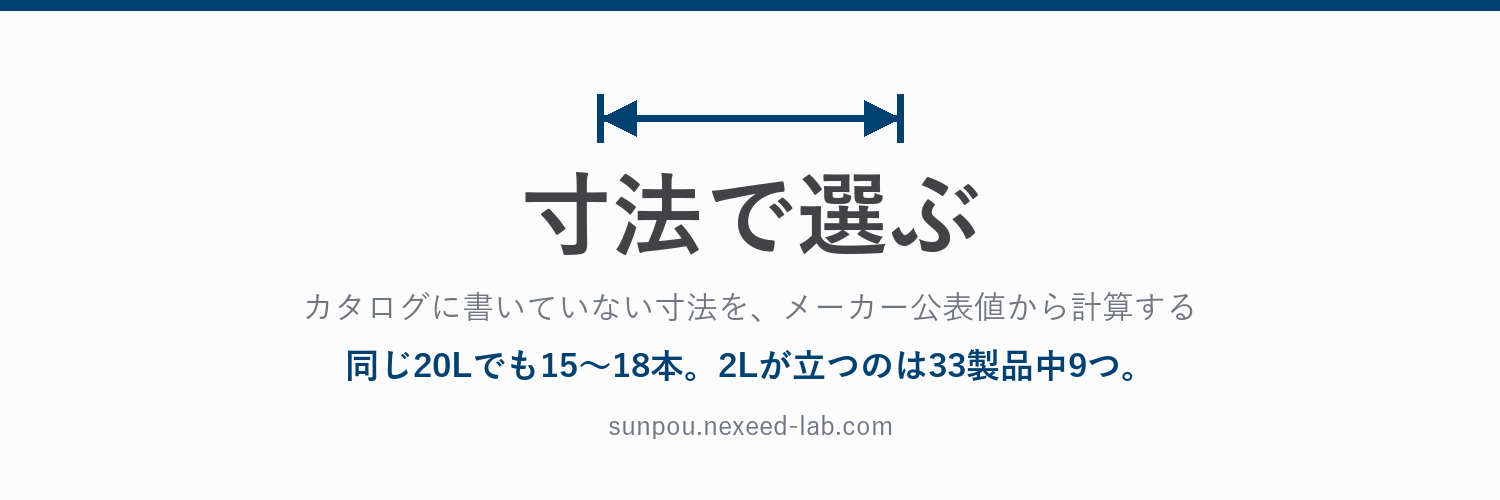
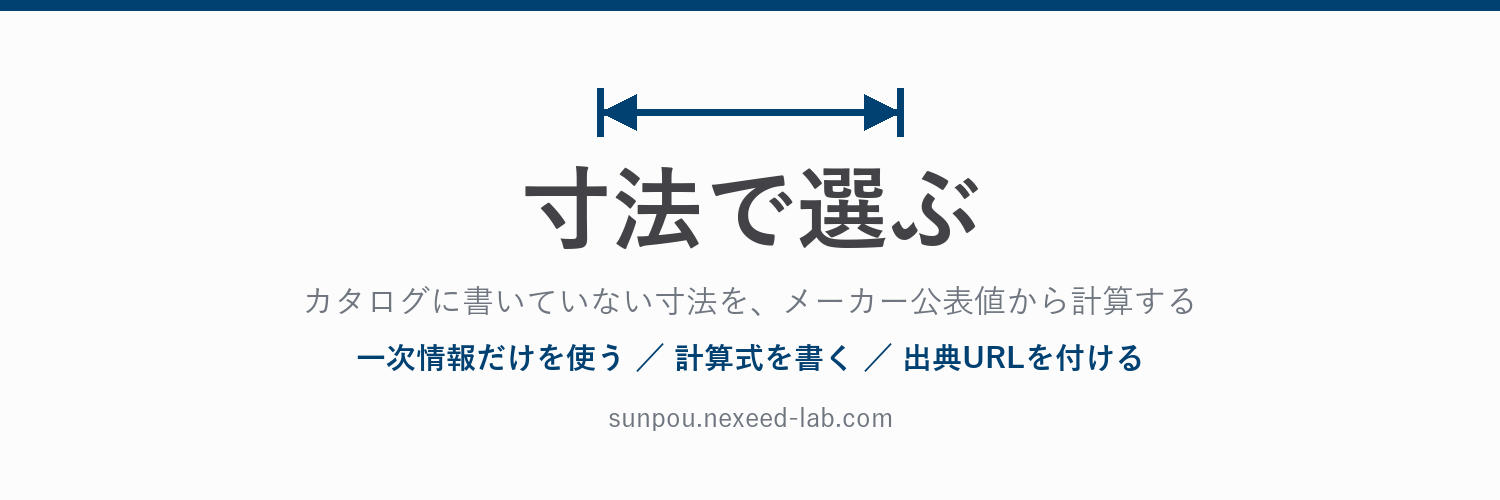
SNSの見直し: 特定ジャンルを前面に出さない方針に変更
利用者から「クーラーボックスを全面に押しすぎ」との指摘。
アカウントは「寸法で確かめる」方法の看板であって、クーラーボックス専門ではない。
プロフィールにジャンルを書くと、後で増やしたときに自分で自分を狭めることになる。

- bio: 「クーラーボックス/500ml/2L」を外し「容量Lや号数」という一般表記に
- ヘッダー: ジャンル固有の数字を全部外し、方法（一次情報/計算式/出典URL）だけに
- 固定ポスト: ジャンルを2つ出して専門アカウントではないことを最初に見せる
- 投稿の下書き: 方法A・カセットコンロB・クーラーボックスC に整理し、Aを先に出す順に
- 記事の側もクーラーボックス9本/カセットコンロ1本で偏っている点を明記

diff --git a/assets/sns/xheader.py b/assets/sns/xheader.py
@@ -1,4 +1,7 @@
 # -*- coding: utf-8 -*-
+# X のヘッダー（1500x500）。
+# 方針: 特定ジャンル（クーラーボックス等）の数字を出さない。
+#       このアカウントは「寸法で確かめる」という方法の看板なので、方法だけを書く。
 from PIL import Image, ImageDraw, ImageFont
 import sys; sys.stdout.reconfigure(encoding='utf-8')
 NAVY=(1,65,114); BG=(252,252,252); INK=(67,67,71); MUTE=(111,118,128)
@@ -7,41 +10,31 @@ def f(p,s): return ImageFont.truetype(p,s)
 W,H=1500,500
 img=Image.new("RGB",(W,H),BG); d=ImageDraw.Draw(img)
 d.rectangle([0,0,W,10], fill=NAVY)
-
-def center(text, font, y, fill):
+boxes=[]
+def center(text, font, y, fill, name):
     bb=d.textbbox((0,0),text,font=font)
     x=(W-(bb[2]-bb[0]))/2 - bb[0]
     d.text((x,y),text,font=font,fill=fill)
-    return (x+bb[0], y+bb[1], x+bb[2], y+bb[3])
+    boxes.append((name, x+bb[0], y+bb[1], x+bb[2], y+bb[3]))
 
-boxes=[]
-# 寸法線（タイトルの上・中央）
-w=7; y=118; half=150
-x1,x2=W//2-half, W//2+half
-hh=int(w*3.5)
+# 寸法線（favicon と同じモチーフ）
+w=7; y=112; half=150; x1,x2=W//2-half, W//2+half; hh=int(w*3.5); a=int(w*2.6)
 d.line([(x1,y-hh),(x1,y+hh)],fill=NAVY,width=w); d.line([(x2,y-hh),(x2,y+hh)],fill=NAVY,width=w)
 d.line([(x1,y),(x2,y)],fill=NAVY,width=w)
-a=int(w*2.6)
 d.polygon([(x1,y),(x1+a*2,y-a),(x1+a*2,y+a)],fill=NAVY); d.polygon([(x2,y),(x2-a*2,y-a),(x2-a*2,y+a)],fill=NAVY)
 boxes.append(("寸法線", x1, y-hh, x2, y+hh))
 
-boxes.append(("タイトル", *center("寸法で選ぶ", f(FB,92), 168, INK)))
-boxes.append(("タグライン", *center("カタログに書いていない寸法を、メーカー公表値から計算する", f(FM,32), 290, MUTE)))
-boxes.append(("数字", *center("同じ20Lでも15〜18本。2Lが立つのは33製品中9つ。", f(FB,34), 348, NAVY)))
-boxes.append(("URL", *center("sunpou.nexeed-lab.com", f(FM,26), 412, MUTE)))
+center("寸法で選ぶ", f(FB,92), 162, INK, "タイトル")
+center("カタログに書いていない寸法を、メーカー公表値から計算する", f(FM,32), 284, MUTE, "タグライン")
+center("一次情報だけを使う ／ 計算式を書く ／ 出典URLを付ける", f(FB,30), 342, NAVY, "方法")
+center("sunpou.nexeed-lab.com", f(FM,26), 404, MUTE, "URL")
 
-# 検査1: 要素どうしの重なり
-ov=[]
-for i in range(len(boxes)):
-    for j in range(i+1,len(boxes)):
-        n1,ax1,ay1,ax2,ay2=boxes[i]; n2,bx1,by1,bx2,by2=boxes[j]
-        if ax1<bx2 and bx1<ax2 and ay1<by2 and by1<ay2: ov.append(f"{n1} × {n2}")
-# 検査2: 枠外 / アイコンが重なる左下（X ではアバターが左下を覆う）
-out=[f"{n} が枠外" for n,x1,y1,x2,y2 in boxes if x1<0 or y1<0 or x2>W or y2>H]
-avatar=(0,300,300,H)
-hit=[n for n,x1,y1,x2,y2 in boxes if x1<avatar[2] and avatar[0]<x2 and y1<avatar[3] and avatar[1]<y2]
-print("重なり:", ov or "なし")
-print("枠外:", out or "なし")
-print("アバターと干渉:", hit or "なし")
-for n,x1,y1,x2,y2 in boxes: print(f"  {n:8s} x {x1:6.0f}-{x2:6.0f}  y {y1:5.0f}-{y2:5.0f}")
+# 検査: 重なり / 枠外 / アバター（X では左下が隠れる）
+ov=[f"{boxes[i][0]} × {boxes[j][0]}" for i in range(len(boxes)) for j in range(i+1,len(boxes))
+    if boxes[i][1]<boxes[j][3] and boxes[j][1]<boxes[i][3] and boxes[i][2]<boxes[j][4] and boxes[j][2]<boxes[i][4]]
+out=[n for n,x1_,y1_,x2_,y2_ in boxes if x1_<0 or y1_<0 or x2_>W or y2_>H]
+av=(0,300,300,H)
+hit=[n for n,x1_,y1_,x2_,y2_ in boxes if x1_<av[2] and av[0]<x2_ and y1_<av[3] and av[1]<y2_]
+print("重なり:", ov or "なし"); print("枠外:", out or "なし"); print("アバターと干渉:", hit or "なし")
+for n,a1,b1,a2,b2 in boxes: print(f"  {n:8s} x {a1:6.0f}-{a2:6.0f}  y {b1:5.0f}-{b2:5.0f}")
 img.save("x-header-1500x500.png")

diff --git a/docs/sns-plan.md b/docs/sns-plan.md
@@ -125,6 +125,17 @@
 | `sunpou_erabu` | 404 | |
 | `nexeed_sunpou` | 404 | |
 
+### ⚠ 方針：**特定ジャンルを前面に出さない**（2026-08-25 見直し）
+
+初版はクーラーボックスの数字（「同じ20Lでも15〜18本」等）をbioとヘッダーに入れていたが、
+**利用者の指摘を受けて全部外した。**
+
+**このアカウントは「寸法で確かめる」という方法の看板であって、クーラーボックス専門アカウントではない。**
+いま記事がクーラーボックスに偏っているのは**たまたま先に書いたから**で、ジャンルは増やしていく。
+プロフィールにジャンルを書き込むと、**後で増やしたときに自分で自分を狭めることになる。**
+
+→ **プロフィールとヘッダーには「方法」だけを書く。ジャンルは投稿の側で出す。**
+
 ### プロフィール（そのまま貼れる）
 
 **表示名**
@@ -133,11 +144,14 @@
 寸法で選ぶ｜カタログにない数字
 ```
 
-**自己紹介（bio・160文字以内 / 下記は約90文字）**
+**自己紹介（bio・160文字以内 / 下記は91文字）**
 
 ```
-カタログに書いていない寸法を計算しています。クーラーボックスに500mlは何本入るか、2Lは立つか。すべてメーカー公表値からの計算で、実測ではありません。数字には必ず出典URLを付けています。
+カタログに書いていない寸法を計算しています。容量Lや号数では「何が入るか」は決まりません。すべてメーカー公表値からの計算で、実測ではありません。数字には必ず出典URLを付けています。
 ```
+
+⚠ **「クーラーボックス」「500ml」「2L」といった固有のジャンル名を入れない。**
+代わりに「容量Lや号数」という**カタログ表記一般**の言い方にしてある（号数＝土鍋、QT＝コールマンにも掛かる）。
 
 **ウェブサイト**
 
@@ -147,14 +161,18 @@ https://sunpou.nexeed-lab.com/
 
 ### 固定ポスト（プロフィールにピン留めする用）
 
+**ジャンルを2つ出して「クーラーボックス専門ではない」ことを最初に見せる。**
+
 ```
-「20Lのクーラーボックスに500mlは何本入るか」を、メーカー公表の内寸から計算しています。
+カタログの数字は、知りたいことを教えてくれないことがあります。
 
-同じ20Lでも15〜18本。2Lが立つのは33製品中9つだけ。
-容量Lは、何が入るかを教えてくれません。
+「20L」のクーラーボックスに何が入るかは容量では決まらないし、
+「9号まで」のカセットコンロに9号の土鍋が乗るとも限らない。
 
-用途から逆に引ける早見表はこちら
-https://sunpou.nexeed-lab.com/coolerbox/erabikata/
+メーカーが公表している寸法から計算して、そこを確かめています。
+実測ではなく計算値で、数字には必ず出典URLを付けます。
+
+https://sunpou.nexeed-lab.com/
 ```
 
 ### アイコンとヘッダー（作成済み）
@@ -178,26 +196,55 @@ https://sunpou.nexeed-lab.com/coolerbox/erabikata/
 ⚠ **どの投稿にもアフィリエイトリンクを貼らない**（第3節の設計）。**貼るのは記事URLだけ。**
 ⚠ **煽り文句（数量限定・在庫僅少）は使わない**（景表法の有利誤認リスク／`affiliate-program-facts.md`）。
 
-| # | 本文 | 添える図版 | リンク先 |
+**A. 方法の投稿（ジャンルに依らない。アカウントの性格を示す）**
+
+| # | 本文 | 図版 | リンク先 |
 |---|---|---|---|
-| 1 | ダイワのクーラーボックス、80Lと60Lで「まっすぐ入る長さ」が**同じ85cm**でした。20L増えても伸びるのは深さだけ。容量Lは長さを教えてくれません。 | `coolerbox-nagasa-eyecatch.svg` | `/coolerbox/uchinori-nagasa/` |
-| 2 | 20Lのクーラーボックスに保冷剤を1枚。**床に寝かせると18本→6本、壁に立てかけると18本のまま。** 同じ箱・同じ1枚でこの差でした。 | `coolerbox-horeizai-oki.svg` | `/coolerbox/horeizai-honsuu/` |
-| 3 | ダイワの「KEEP」とシマノの「COOL」、**どちらもJIS S 2048の簡便法で「氷が溶け切るまでの時間」に換算した同じ物差し**でした。名前が違うだけです。 | `coolerbox-daiwa-shimano-eyecatch.svg` | `/coolerbox/daiwa-shimano/` |
-| 4 | 「9号土鍋まで」と書かれたカセットコンロ。ところが**同じ銀峯陶器の9号でも幅は31〜32.5cm**あります。号数は寸法を決めていません。 | `konro-donabe-eyecatch.svg` | `/cassette-konro/donabe-nangou/` |
-| 5 | アイリスオーヤマの15Lクーラーボックス、**外寸で測ると46Lの箱**でした。中身に使えるのは13.4L。外寸の3〜4割しか中に入りません。 | `coolerbox-yoryo-eyecatch.svg` | `/coolerbox/yoryo-uchinori/` |
-| 6 | 2Lペットボトルが立つクーラーボックスを探すなら**コールマン**でした。26Lクラスで内寸の深さ350mm。日本の釣り系メーカーは同クラスで220〜260mmです。 | `coleman-fukasa-eyecatch.svg` | `/coolerbox/coleman-uchinori/` |
+| A1 | カタログの数字が、知りたいことを教えてくれない例を集めています。クーラーボックスの「容量L」、土鍋の「号数」、コールマンの「QT」。**どれも“何が入るか”は別の数字で決まっていました。** | なし | `/` |
+| A2 | このサイトのルールは3つです。①**一次情報だけを使う**（通販の商品説明は根拠にしない）②**計算式を記事に書く**（読者が検算できる形にする）③**数字には出典URLを付ける**。実測ではなく計算値だとも必ず明記します。 | なし | `/about/` |
+| A3 | メーカーが公表している数字どうしが**食い違っていること**もあります。イワタニは「10号土鍋まで」と書いているのに、**その機種の本体幅（33.4cm）より10号土鍋（34〜36cm）のほうが大きい**。どちらも公表値です。 | `konro-donabe-haba.svg` | `/cassette-konro/donabe-nangou/` |
+
+**B. カセットコンロ（いまの季節に出す）**
+
+| # | 本文 | 図版 | リンク先 |
+|---|---|---|---|
+| B1 | 「9号土鍋まで」と書かれたカセットコンロ。ところが**同じ銀峯陶器の9号でも幅は31〜32.5cm**あります。号数は寸法を決めていません。 | `konro-donabe-eyecatch.svg` | `/cassette-konro/donabe-nangou/` |
+| B2 | イワタニのカセットこんろ10機種を並べたら、**火力と乗る鍋の大きさは無関係**でした。最大4.1kWの機種が9号まで、**最小2.9kWの機種だけが10号まで**。 | なし | `/cassette-konro/donabe-nangou/` |
+
+**C. クーラーボックス（需要期＝初夏に出す）**
+
+| # | 本文 | 図版 | リンク先 |
+|---|---|---|---|
+| C1 | ダイワのクーラーボックス、80Lと60Lで「まっすぐ入る長さ」が**同じ85cm**でした。20L増えても伸びるのは深さだけ。 | `coolerbox-nagasa-eyecatch.svg` | `/coolerbox/uchinori-nagasa/` |
+| C2 | 20Lのクーラーボックスに保冷剤を1枚。**床に寝かせると18本→6本、壁に立てかけると18本のまま。** 同じ箱・同じ1枚でこの差でした。 | `coolerbox-horeizai-oki.svg` | `/coolerbox/horeizai-honsuu/` |
+| C3 | ダイワの「KEEP」とシマノの「COOL」、**どちらもJIS S 2048の簡便法で「氷が溶け切るまでの時間」に換算した同じ物差し**でした。名前が違うだけです。 | `coolerbox-daiwa-shimano-eyecatch.svg` | `/coolerbox/daiwa-shimano/` |
+| C4 | アイリスオーヤマの15Lクーラーボックス、**外寸で測ると46Lの箱**でした。中身に使えるのは13.4L。 | `coolerbox-yoryo-eyecatch.svg` | `/coolerbox/yoryo-uchinori/` |
+| C5 | 2Lペットボトルが立つクーラーボックスを探すなら**コールマン**でした。26Lクラスで内寸の深さ350mm。日本の釣り系メーカーは同クラスで220〜260mmです。 | `coleman-fukasa-eyecatch.svg` | `/coolerbox/coleman-uchinori/` |
 
 ⚠ **図版は `site/public/img/*.svg` にある。X はSVGを受け付けないので、PNGに変換してから添付する。**
 
-### 投稿の順番（季節を踏まえた提案）
+### 投稿の順番
 
 `未検証` — 季節性は仮説。**2026年8月末時点でクーラーボックスの需要は終わりかけ、カセットコンロはこれから。**
 
 ```
-いま      … 4（土鍋）を先に出す。冬に向けて積む
-9〜10月   … 3（KEEP/COOL）5（容量L）… 通年で読める話
-来年の初夏 … 1・2・6 を再投稿する（クーラーボックスの需要期）
+最初        … 固定ポスト → A1 → A2   （アカウントの性格を先に見せる）
+9〜11月     … B1・B2・A3            （カセットコンロ＝冬に向けて積む）
+通年        … C3（保冷力の物差し）は季節を選ばない
+来年の初夏   … C1・C2・C4・C5         （クーラーボックスの需要期）
 ```
+
+**A（方法）を先に出すのが要点。** 最初に見えるのがクーラーボックスばかりだと、
+**専門アカウントだと思われて後でジャンルを増やしにくくなる。**
+
+### ⚠ 記事の側も偏っている
+
+いま**クーラーボックス9本／カセットコンロ1本**。
+プロフィールを汎用にしても、**サイトを見に行った人には偏りがそのまま見える。**
+
+→ **次に書く記事は、クーラーボックス以外にする。**
+候補は `docs/genre-candidates.md` の未検証5件（踏み台・脚立／チェーンロック／タイヤチェーン／フロアポンプ）と、
+カセットコンロの2本目（イワタニが[プレート適合表PDF](https://www.iwatani.co.jp/jpn/consumer/products/cg/useful/plate/)を公表している）。
 
 ---
 
